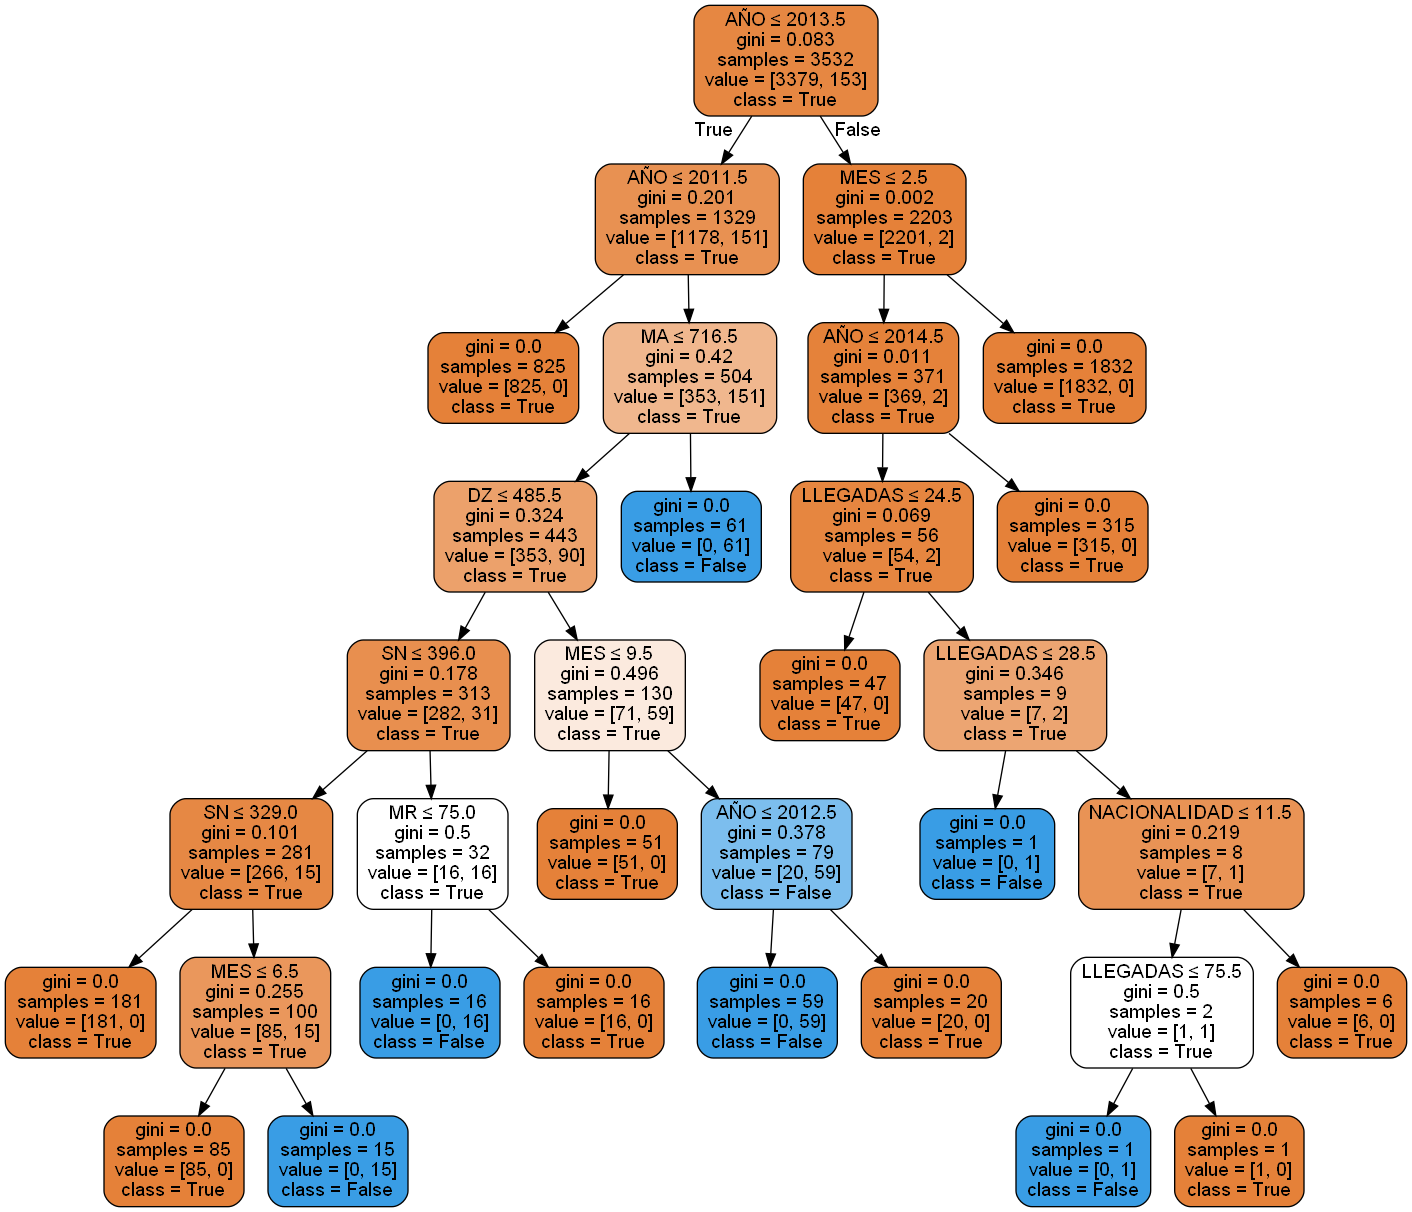
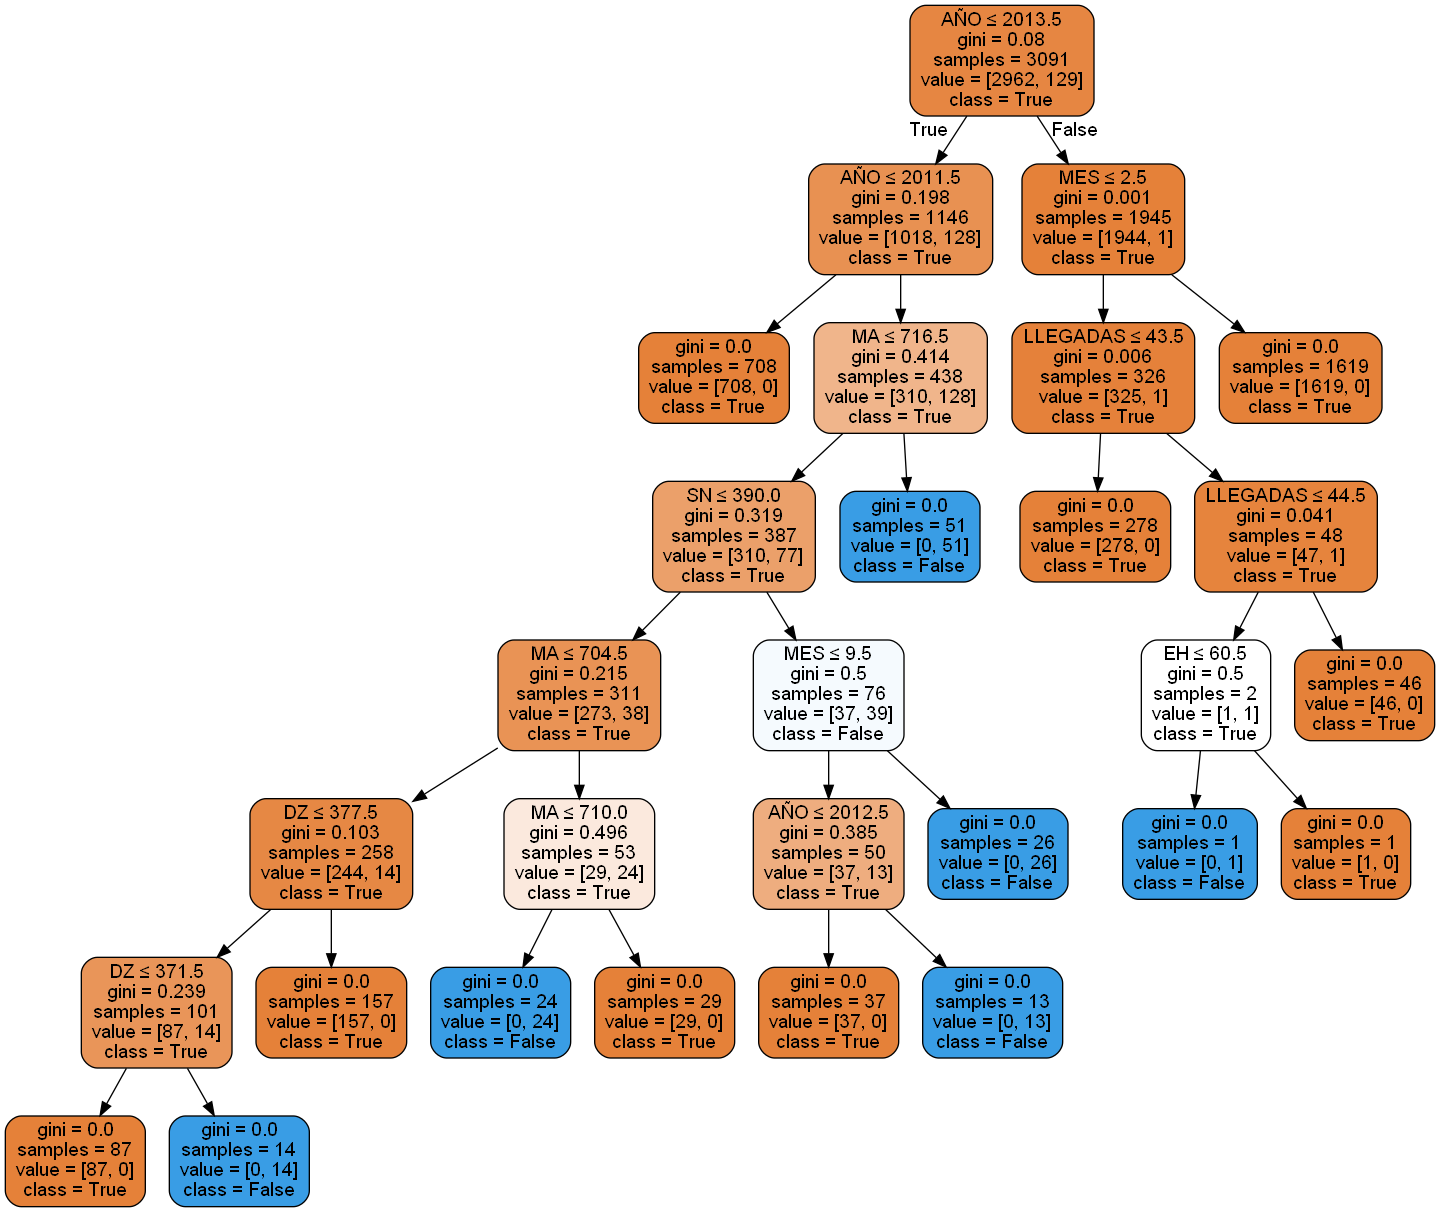
Aumentar el tamaño de los datos de testeo

diff --git a/cart_complex_2506.py b/cart_complex_2506.py
@@ -44,7 +44,7 @@ X = dataset[dataset.columns[:-1]]
 y = dataset["FMM"]
 
 # Dividimos el dataset entre datos de entrenamiento (80%) y de validacion(20%)
-X_train, X_test, y_train, y_test = train_test_split(X, y, test_size=0.2, random_state=seed, shuffle=True)
+X_train, X_test, y_train, y_test = train_test_split(X, y, test_size=0.3, random_state=seed, shuffle=True)
 
 # ÁRBOLES DE DECISION - CART
 print("\n\nArboles de decisión. Modelo CART:")
